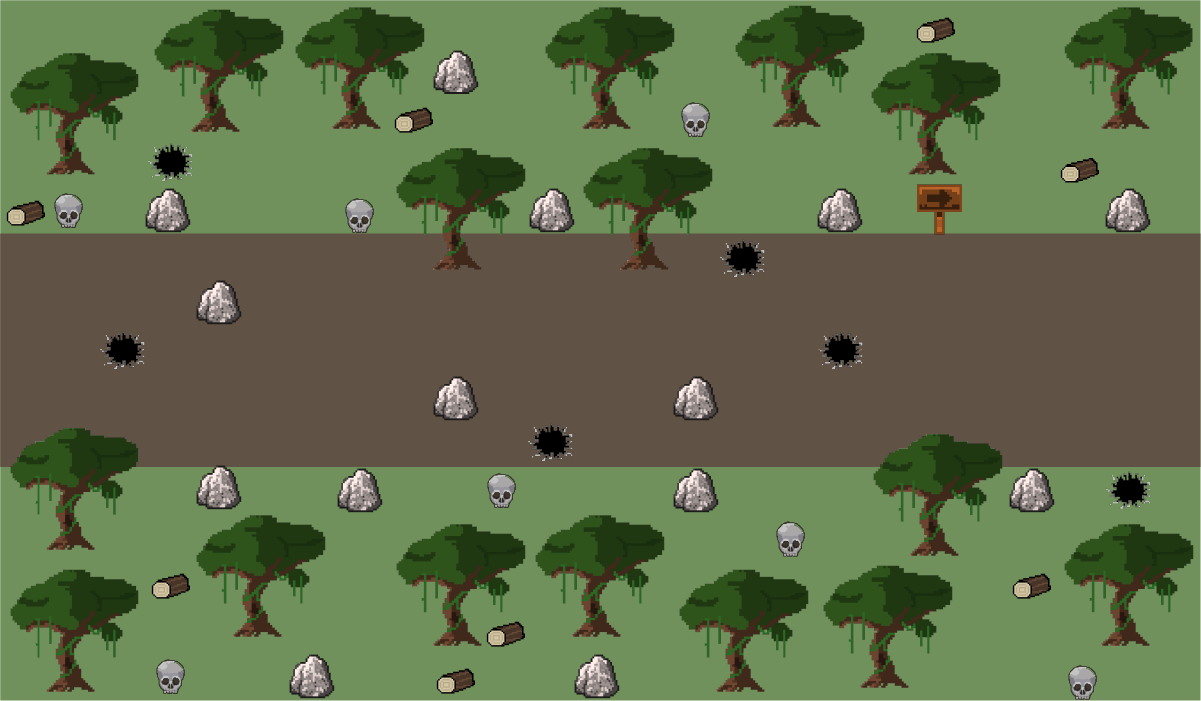
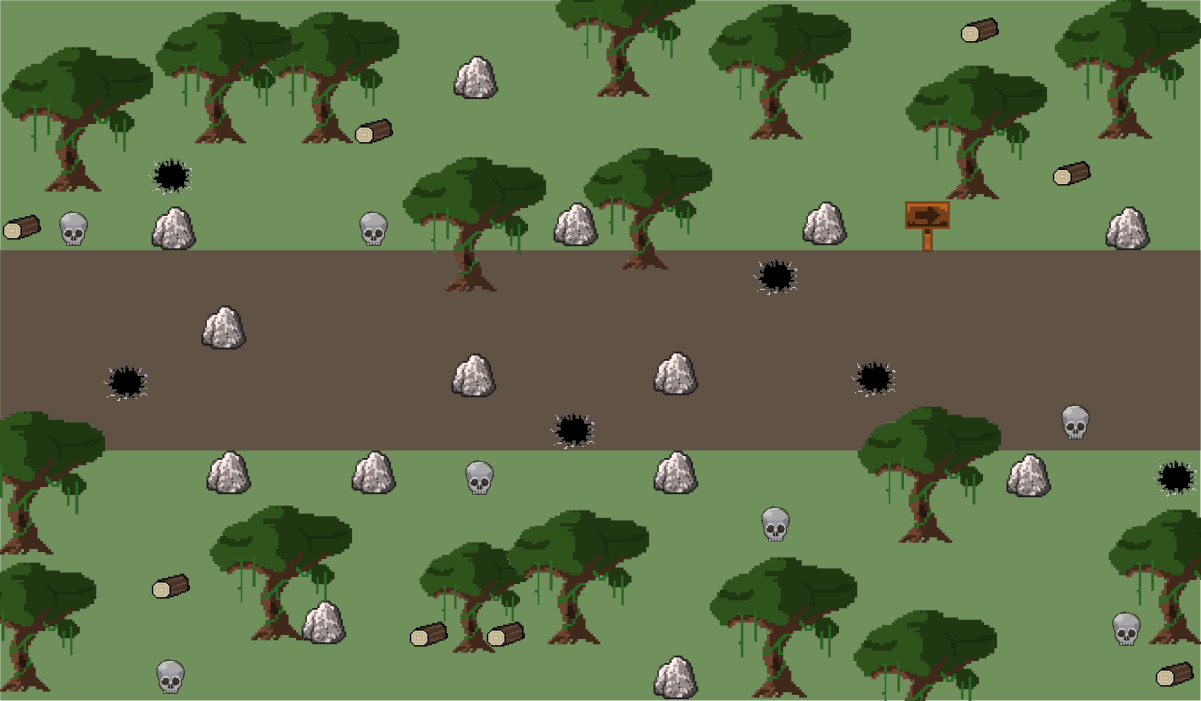
Area sensible de los mapas y correcion de estos

diff --git a/Map.js b/Map.js
@@ -18,9 +18,9 @@ class Map {
                 rect(column * 50, row * 50, 50, 50);
             }
         }
-        imageMode(CENTER);
-        image(this.image, 600, 350);
-        imageMode(CORNER);
+        //imageMode(CENTER);
+        image(this.image, 600, 350, 1200, 700);
+        //imageMode(CORNER);
         if (this.rifle !== null) {
             this.rifle.show()
         }
@@ -31,112 +31,113 @@ class Map {
     // Cambios de nivel
     ground(level){
         switch (level) {
-            case 0: //Nivel 1
+            case 0: //Nivel 1 barco
                 this.level = [
-                    [0, 0, 0, 0, 0, 0, 0, 0, 0, 0, 0, 0, 0, 0, 0, 0, 0, 0, 0, 0, 0, 0, 0, 0],
-                    [0, 0, 0, 0, 0, 0, 0, 0, 0, 0, 0, 0, 0, 0, 0, 0, 0, 0, 0, 0, 0, 0, 0, 0],
-                    [0, 0, 0, 0, 0, 0, 0, 0, 0, 0, 0, 0, 0, 0, 0, 0, 0, 0, 0, 0, 0, 0, 0, 0],
-                    [0, 0, 0, 0, 0, 0, 0, 0, 0, 0, 0, 0, 0, 0, 0, 0, 0, 0, 0, 0, 0, 0, 0, 0],
-                    [0, 0, 0, 0, 0, 0, 0, 0, 0, 0, 0, 0, 0, 0, 0, 0, 0, 0, 0, 0, 0, 0, 0, 0],
-                    [0, 0, 0, 0, 0, 0, 0, 0, 0, 0, 0, 0, 0, 0, 0, 0, 0, 0, 0, 0, 0, 0, 0, 0],
-                    [0, 0, 0, 0, 0, 0, 0, 0, 0, 0, 0, 1, 0, 1, 0, 0, 0, 0, 0, 0, 0, 0, 0, 2],
-                    [0, 0, 0, 0, 0, 0, 0, 0, 0, 0, 0, 0, 0, 0, 0, 0, 0, 0, 0, 0, 0, 0, 0, 2],
-                    [0, 0, 0, 0, 0, 0, 0, 0, 0, 0, 0, 1, 0, 1, 0, 0, 0, 0, 0, 0, 0, 0, 0, 0],
-                    [0, 0, 0, 0, 0, 0, 0, 0, 0, 0, 0, 0, 0, 0, 0, 0, 0, 0, 0, 0, 0, 0, 0, 0],
-                    [0, 0, 0, 0, 0, 0, 0, 0, 0, 0, 0, 0, 0, 0, 0, 0, 0, 0, 0, 0, 0, 0, 0, 0],
-                    [0, 0, 0, 0, 0, 0, 0, 0, 0, 0, 0, 0, 0, 0, 0, 0, 0, 0, 0, 0, 0, 0, 0, 0],
-                    [0, 0, 0, 0, 0, 0, 0, 0, 0, 0, 0, 0, 0, 0, 0, 0, 0, 0, 0, 0, 0, 0, 0, 0],
-                    [0, 0, 0, 0, 0, 0, 0, 0, 0, 0, 0, 0, 0, 0, 0, 0, 0, 0, 0, 0, 0, 0, 0, 0],
+                    [1, 1, 1, 1, 1, 1, 1, 1, 1, 1, 1, 1, 1, 1, 1, 1, 1, 1, 1, 1, 1, 1, 1, 1],
+                    [1, 1, 1, 1, 1, 1, 1, 1, 1, 1, 1, 1, 1, 1, 1, 1, 1, 1, 1, 1, 1, 1, 1, 1],
+                    [1, 1, 1, 1, 1, 0, 0, 0, 0, 0, 0, 0, 0, 0, 0, 0, 0, 0, 0, 0, 1, 1, 1, 1],
+                    [1, 1, 1, 1, 0, 0, 1, 1, 0, 0, 1, 0, 0, 0, 0, 0, 1, 0, 1, 1, 0, 1, 1, 1],
+                    [1, 1, 1, 1, 0, 0, 0, 0, 0, 0, 0, 0, 1, 1, 0, 0, 0, 0, 0, 0, 0, 1, 1, 1],
+                    [1, 1, 1, 1, 1, 0, 0, 1, 0, 0, 0, 0, 0, 0, 0, 0, 0, 0, 0, 0, 0, 0, 1, 1],
+                    [1, 1, 1, 1, 1, 0, 0, 0, 0, 0, 0, 0, 0, 0, 0, 0, 0, 0, 0, 0, 0, 0, 1, 1],
+                    [1, 1, 1, 1, 1, 0, 0, 0, 0, 0, 0, 0, 0, 0, 0, 0, 0, 0, 0, 0, 0, 0, 1, 1],
+                    [1, 1, 1, 1, 1, 0, 1, 0, 0, 0, 0, 0, 0, 1, 0, 0, 0, 0, 0, 1, 1, 1, 1, 1],
+                    [1, 1, 1, 1, 0, 0, 0, 0, 0, 1, 0, 0, 0, 0, 0, 0, 0, 0, 0, 0, 0, 1, 1, 1],
+                    [1, 1, 1, 1, 0, 0, 1, 1, 0, 0, 0, 0, 0, 0, 1, 1, 0, 0, 1, 0, 0, 1, 1, 1],
+                    [1, 1, 1, 1, 1, 0, 0, 0, 0, 0, 0, 0, 0, 0, 0, 0, 0, 0, 0, 0, 0, 1, 1, 1],
+                    [1, 1, 1, 1, 1, 1, 1, 1, 1, 1, 1, 2, 1, 1, 1, 1, 1, 1, 1, 1, 1, 1, 1, 1],
+                    [1, 1, 1, 1, 1, 1, 1, 1, 1, 1, 1, 2, 1, 1, 1, 1, 1, 1, 1, 1, 1, 1, 1, 1],
+                    
                 ];
                 break;
-                case 1: //Nivel 2
+                case 1: //Nivel 2 playa
                 this.level = [
-                    [0, 0, 0, 0, 0, 0, 0, 0, 0, 0, 0, 0, 0, 0, 0, 0, 0, 0, 0, 0, 0, 0, 0, 0],
-                    [0, 0, 0, 0, 0, 0, 0, 0, 0, 0, 0, 0, 0, 0, 0, 0, 0, 0, 0, 0, 0, 0, 0, 0],
-                    [0, 0, 0, 0, 0, 0, 0, 0, 0, 0, 0, 0, 0, 0, 0, 0, 0, 0, 0, 0, 0, 0, 0, 0],
-                    [0, 0, 0, 0, 0, 0, 0, 0, 0, 0, 0, 0, 0, 0, 0, 0, 0, 0, 0, 0, 0, 0, 0, 0],
-                    [0, 0, 0, 0, 0, 0, 0, 0, 0, 0, 0, 0, 0, 0, 0, 0, 0, 0, 0, 0, 0, 0, 0, 0],
-                    [0, 0, 0, 0, 0, 0, 0, 0, 0, 0, 0, 0, 0, 0, 0, 0, 0, 0, 0, 0, 0, 0, 0, 0],
-                    [0, 0, 0, 0, 0, 0, 0, 0, 0, 0, 0, 0, 0, 0, 0, 0, 0, 0, 0, 0, 0, 0, 0, 0],
-                    [0, 0, 0, 0, 0, 0, 0, 0, 0, 0, 0, 0, 0, 0, 0, 0, 0, 0, 0, 0, 0, 0, 0, 0],
-                    [0, 0, 0, 0, 0, 0, 0, 0, 0, 0, 0, 1, 0, 1, 0, 0, 0, 0, 0, 0, 0, 0, 0, 0],
-                    [0, 0, 0, 0, 0, 0, 0, 0, 0, 0, 0, 0, 0, 0, 0, 0, 0, 0, 0, 0, 0, 0, 0, 0],
-                    [0, 0, 0, 0, 0, 0, 0, 0, 0, 0, 0, 0, 0, 0, 0, 0, 0, 0, 0, 0, 0, 0, 0, 0],
-                    [0, 0, 0, 0, 0, 0, 0, 0, 0, 0, 0, 0, 0, 0, 0, 0, 0, 0, 0, 0, 0, 0, 0, 0],
-                    [0, 0, 0, 0, 0, 0, 0, 0, 0, 0, 0, 0, 0, 0, 0, 0, 0, 0, 0, 0, 0, 0, 0, 0],
-                    [0, 0, 0, 0, 0, 0, 0, 0, 0, 0, 0, 2, 2, 0, 0, 0, 0, 0, 0, 0, 0, 0, 0, 0],
+                    [1, 1, 1, 1, 1, 1, 1, 1, 1, 1, 1, 1, 1, 1, 1, 1, 1, 1, 1, 1, 1, 1, 1, 1],
+                    [1, 1, 1, 1, 1, 1, 1, 1, 1, 1, 1, 1, 1, 1, 1, 1, 1, 1, 1, 1, 1, 1, 1, 1],
+                    [1, 1, 1, 1, 1, 1, 1, 1, 1, 1, 1, 1, 1, 1, 1, 1, 1, 1, 1, 1, 1, 1, 1, 1],
+                    [1, 1, 1, 1, 1, 1, 1, 1, 1, 1, 1, 1, 1, 1, 1, 1, 1, 1, 1, 1, 1, 1, 1, 1],
+                    [1, 1, 1, 1, 1, 1, 1, 1, 1, 1, 1, 1, 1, 1, 1, 1, 1, 1, 1, 1, 0, 1, 1, 1],
+                    [0, 0, 1, 0, 0, 1, 0, 1, 0, 0, 0, 0, 0, 1, 0, 0, 0, 0, 1, 0, 0, 0, 1, 1],
+                    [0, 0, 0, 0, 0, 0, 0, 1, 1, 0, 1, 0, 0, 0, 0, 0, 0, 0, 0, 0, 0, 0, 1, 0],
+                    [1, 0, 0, 0, 1, 0, 0, 1, 1, 0, 0, 0, 0, 0, 0, 0, 0, 0, 1, 0, 0, 0, 1, 0],
+                    [0, 1, 1, 0, 1, 1, 0, 1, 0, 0, 0, 1, 0, 0, 0, 0, 0, 0, 0, 1, 1, 0, 0, 0],
+                    [0, 1, 0, 0, 0, 1, 0, 0, 0, 1, 0, 0, 0, 0, 0, 0, 0, 0, 0, 1, 1, 0, 0, 0],
+                    [0, 0, 0, 0, 0, 1, 1, 1, 0, 0, 0, 0, 0, 0, 0, 1, 1, 0, 0, 1, 0, 1, 1, 0],
+                    [0, 0, 1, 0, 1, 0, 1, 1, 0, 0, 0, 0, 0, 1, 0, 1, 1, 0, 1, 1, 0, 1, 1, 0],
+                    [2, 2, 2, 0, 0, 0, 1, 0, 0, 1, 0, 0, 0, 0, 0, 0, 1, 0, 1, 1, 0, 1, 0, 0],
+                    [2, 2, 2, 0, 0, 0, 0, 0, 0, 0, 0, 0, 0, 0, 0, 0, 0, 0, 1, 0, 0, 0, 0, 0],
                 ];
                 break;
-                case 2: // Nivel 3
+                case 2: // Nivel 3 carretera
                 this.level = [
-                    [0, 0, 0, 0, 0, 0, 0, 0, 0, 0, 0, 0, 0, 0, 0, 0, 0, 0, 0, 0, 0, 0, 0, 0],
-                    [0, 0, 0, 0, 0, 0, 0, 0, 0, 0, 0, 0, 0, 0, 0, 0, 0, 0, 0, 0, 0, 0, 0, 0],
-                    [0, 0, 0, 0, 0, 0, 0, 0, 0, 0, 0, 0, 0, 0, 0, 0, 0, 0, 0, 0, 0, 0, 0, 0],
-                    [0, 0, 0, 0, 0, 0, 0, 0, 0, 0, 0, 0, 0, 0, 0, 0, 0, 0, 0, 0, 0, 0, 0, 0],
-                    [0, 0, 0, 0, 0, 0, 0, 0, 0, 0, 0, 0, 0, 0, 0, 0, 0, 0, 0, 0, 0, 0, 0, 0],
-                    [0, 0, 0, 0, 0, 0, 0, 0, 0, 0, 0, 0, 0, 0, 0, 0, 0, 0, 0, 0, 0, 0, 0, 0],
-                    [0, 0, 0, 0, 0, 0, 0, 0, 0, 0, 0, 1, 0, 1, 0, 0, 0, 0, 0, 0, 0, 0, 0, 0],
-                    [0, 0, 0, 0, 0, 0, 0, 0, 0, 0, 0, 0, 0, 0, 0, 0, 0, 0, 0, 0, 0, 0, 0, 0],
-                    [0, 0, 0, 0, 0, 0, 0, 0, 0, 0, 0, 1, 0, 1, 0, 0, 0, 0, 0, 0, 0, 0, 0, 0],
-                    [0, 0, 0, 0, 0, 0, 0, 0, 0, 0, 0, 0, 0, 0, 0, 0, 0, 0, 0, 0, 0, 0, 0, 0],
-                    [0, 0, 0, 0, 0, 0, 0, 0, 0, 0, 0, 0, 0, 0, 0, 0, 0, 0, 0, 0, 0, 0, 0, 0],
-                    [0, 0, 0, 0, 0, 0, 0, 0, 0, 0, 0, 0, 0, 0, 0, 0, 0, 0, 0, 0, 0, 0, 0, 0],
-                    [0, 0, 0, 0, 0, 0, 0, 0, 0, 0, 0, 0, 0, 0, 0, 0, 0, 0, 0, 0, 0, 0, 0, 0],
-                    [0, 0, 0, 0, 0, 0, 0, 0, 0, 0, 0, 0, 0, 0, 0, 0, 0, 0, 0, 0, 0, 0, 0, 0],
+                    [0, 0, 0, 0, 0, 0, 1, 0, 0, 0, 0, 0, 0, 0, 0, 0, 0, 0, 0, 0, 0, 0, 0, 0],
+                    [1, 1, 1, 1, 0, 0, 1, 0, 0, 0, 0, 0, 0, 0, 0, 0, 0, 0, 0, 0, 0, 0, 0, 0],
+                    [0, 1, 1, 1, 0, 0, 1, 0, 0, 0, 0, 0, 0, 0, 0, 0, 0, 0, 0, 0, 0, 0, 0, 0],
+                    [0, 1, 0, 0, 0, 0, 0, 0, 0, 0, 0, 0, 0, 0, 0, 0, 0, 0, 0, 0, 0, 0, 0, 0],
+                    [1, 1, 1, 1, 1, 1, 1, 1, 1, 1, 1, 0, 0, 1, 1, 1, 1, 1, 1, 1, 1, 1, 1, 1],
+                    [0, 1, 1, 1, 0, 0, 0, 1, 1, 1, 0, 0, 0, 0, 1, 1, 1, 0, 0, 0, 0, 0, 0, 0],
+                    [0, 1, 1, 1, 0, 0, 0, 1, 1, 1, 0, 0, 0, 1, 1, 1, 1, 0, 0, 1, 1, 1, 0, 0],
+                    [0, 0, 1, 0, 0, 1, 0, 0, 1, 0, 0, 0, 0, 0, 0, 1, 0, 0, 1, 1, 1, 1, 0, 0],
+                    [0, 0, 0, 0, 0, 0, 0, 0, 0, 0, 1, 0, 0, 1, 0, 0, 0, 0, 0, 0, 1, 0, 0, 0],
+                    [1, 1, 1, 1, 1, 1, 1, 1, 1, 1, 1, 0, 0, 1, 1, 1, 1, 1, 1, 1, 1, 1, 1, 1],
+                    [1, 1, 1, 1, 1, 0, 0, 0, 0, 0, 0, 0, 0, 0, 0, 0, 0, 0, 0, 1, 1, 1, 1, 1],
+                    [1, 1, 1, 1, 1, 0, 0, 0, 0, 0, 0, 0, 0, 0, 0, 0, 0, 0, 0, 1, 1, 1, 1, 1],
+                    [0, 0, 0, 0, 0, 0, 0, 0, 0, 0, 0, 0, 0, 1, 1, 0, 0, 0, 0, 0, 1, 1, 1, 1],
+                    [0, 0, 0, 0, 0, 0, 0, 0, 0, 0, 0, 0, 0, 1, 1, 0, 0, 0, 0, 0, 0, 0, 0, 0],
                 ];
                 break;
-                case 3: //Nivel 4
+                case 3: //Nivel 4 ciudad
                 this.level = [
-                    [0, 0, 0, 0, 0, 0, 0, 0, 0, 0, 0, 0, 0, 0, 0, 0, 0, 0, 0, 0, 0, 0, 0, 0],
-                    [0, 0, 0, 0, 0, 0, 0, 0, 0, 0, 0, 0, 0, 0, 0, 0, 0, 0, 0, 0, 0, 0, 0, 0],
-                    [0, 0, 0, 0, 0, 0, 0, 0, 0, 0, 0, 0, 0, 0, 0, 0, 0, 0, 0, 0, 0, 0, 0, 0],
-                    [0, 0, 0, 0, 0, 0, 0, 0, 0, 0, 0, 0, 0, 0, 0, 0, 0, 0, 0, 0, 0, 0, 0, 0],
-                    [0, 0, 0, 0, 0, 0, 0, 0, 0, 0, 0, 0, 0, 0, 0, 0, 0, 0, 0, 0, 0, 0, 0, 0],
-                    [0, 0, 0, 0, 0, 0, 0, 0, 0, 0, 0, 0, 0, 0, 0, 0, 0, 0, 0, 0, 0, 0, 0, 0],
-                    [0, 0, 0, 0, 0, 0, 0, 0, 0, 0, 0, 1, 0, 1, 0, 0, 0, 0, 0, 0, 0, 0, 0, 0],
-                    [0, 0, 0, 0, 0, 0, 0, 0, 0, 0, 0, 0, 0, 0, 0, 0, 0, 0, 0, 0, 0, 0, 0, 0],
-                    [0, 0, 0, 0, 0, 0, 0, 0, 0, 0, 0, 1, 0, 1, 0, 0, 0, 0, 0, 0, 0, 0, 0, 0],
-                    [0, 0, 0, 0, 0, 0, 0, 0, 0, 0, 0, 0, 0, 0, 0, 0, 0, 0, 0, 0, 0, 0, 0, 0],
-                    [0, 0, 0, 0, 0, 0, 0, 0, 0, 0, 0, 0, 0, 0, 0, 0, 0, 0, 0, 0, 0, 0, 0, 0],
-                    [0, 0, 0, 0, 0, 0, 0, 0, 0, 0, 0, 0, 0, 0, 0, 0, 0, 0, 0, 0, 0, 0, 0, 0],
-                    [0, 0, 0, 0, 0, 0, 0, 0, 0, 0, 0, 0, 0, 0, 0, 0, 0, 0, 0, 0, 0, 0, 0, 0],
-                    [0, 0, 0, 0, 0, 0, 0, 0, 0, 0, 0, 0, 0, 0, 0, 0, 0, 0, 0, 0, 0, 0, 0, 0],
+                    [1, 1, 1, 1, 1, 1, 1, 1, 1, 1, 2, 2, 2, 2, 1, 1, 1, 1, 1, 1, 1, 1, 1, 1],
+                    [1, 1, 1, 1, 1, 1, 1, 1, 1, 1, 0, 0, 0, 1, 1, 1, 1, 1, 1, 1, 1, 1, 1, 1],
+                    [1, 1, 1, 0, 0, 0, 0, 0, 0, 1, 0, 0, 0, 0, 1, 0, 0, 0, 1, 1, 1, 0, 1, 0],
+                    [0, 0, 1, 0, 0, 1, 0, 1, 0, 0, 0, 0, 0, 0, 0, 1, 0, 1, 0, 0, 0, 1, 0, 0],
+                    [0, 0, 0, 0, 0, 0, 0, 0, 1, 0, 0, 0, 0, 0, 0, 1, 0, 0, 0, 0, 0, 0, 0, 0],
+                    [0, 0, 0, 0, 0, 0, 0, 0, 0, 0, 0, 0, 0, 0, 0, 0, 0, 0, 0, 0, 1, 1, 1, 1],
+                    [0, 0, 0, 0, 0, 0, 0, 0, 0, 0, 0, 0, 0, 0, 0, 0, 0, 0, 0, 0, 1, 1, 1, 1],
+                    [0, 0, 0, 0, 1, 1, 1, 0, 0, 0, 0, 0, 0, 0, 0, 0, 0, 1, 1, 1, 1, 0, 0, 0],
+                    [0, 0, 0, 0, 1, 1, 1, 0, 0, 0, 1, 0, 0, 0, 1, 0, 0, 1, 1, 1, 1, 0, 0, 0],
+                    [0, 0, 0, 1, 1, 0, 0, 0, 1, 0, 0, 0, 0, 0, 1, 0, 0, 0, 1, 1, 0, 0, 0, 0],
+                    [0, 1, 1, 1, 1, 1, 1, 0, 0, 0, 0, 0, 0, 0, 1, 0, 1, 1, 1, 1, 1, 1, 1, 1],
+                    [0, 0, 0, 0, 0, 0, 0, 0, 1, 1, 0, 0, 0, 0, 0, 0, 0, 0, 1, 1, 0, 0, 1, 1],
+                    [0, 1, 1, 0, 0, 0, 1, 0, 1, 1, 0, 1, 1, 0, 0, 1, 1, 0, 1, 1, 0, 0, 0, 0],
+                    [0, 1, 1, 0, 0, 0, 0, 0, 0, 0, 0, 1, 1, 0, 0, 1, 1, 0, 0, 0, 0, 0, 0, 0],
                 ];
                 break;
-                case 4: // Nivel 5
+                case 4: // Nivel 5 bosque
                 this.level = [
-                    [0, 0, 0, 0, 0, 0, 0, 0, 0, 0, 0, 0, 0, 0, 0, 0, 0, 0, 0, 0, 0, 0, 0, 0],
-                    [0, 0, 0, 0, 0, 0, 0, 0, 0, 0, 0, 0, 0, 0, 0, 0, 0, 0, 0, 0, 0, 0, 0, 0],
-                    [0, 0, 0, 0, 0, 0, 0, 0, 0, 0, 0, 0, 0, 0, 0, 0, 0, 0, 0, 0, 0, 0, 0, 0],
-                    [0, 0, 0, 0, 0, 0, 0, 0, 0, 0, 0, 0, 0, 0, 0, 0, 0, 0, 0, 0, 0, 0, 0, 0],
-                    [0, 0, 0, 0, 0, 0, 0, 0, 0, 0, 0, 0, 0, 0, 0, 0, 0, 0, 0, 0, 0, 0, 0, 0],
-                    [0, 0, 0, 0, 0, 0, 0, 0, 0, 0, 0, 0, 0, 0, 0, 0, 0, 0, 0, 0, 0, 0, 0, 0],
-                    [0, 0, 0, 0, 0, 0, 0, 0, 0, 0, 0, 1, 0, 1, 0, 0, 0, 0, 0, 0, 0, 0, 0, 0],
-                    [0, 0, 0, 0, 0, 0, 0, 0, 0, 0, 0, 0, 0, 0, 0, 0, 0, 0, 0, 0, 0, 0, 0, 0],
-                    [0, 0, 0, 0, 0, 0, 0, 0, 0, 0, 0, 1, 0, 1, 0, 0, 0, 0, 0, 0, 0, 0, 0, 0],
-                    [0, 0, 0, 0, 0, 0, 0, 0, 0, 0, 0, 0, 0, 0, 0, 0, 0, 0, 0, 0, 0, 0, 0, 0],
-                    [0, 0, 0, 0, 0, 0, 0, 0, 0, 0, 0, 0, 0, 0, 0, 0, 0, 0, 0, 0, 0, 0, 0, 0],
-                    [0, 0, 0, 0, 0, 0, 0, 0, 0, 0, 0, 0, 0, 0, 0, 0, 0, 0, 0, 0, 0, 0, 0, 0],
-                    [0, 0, 0, 0, 0, 0, 0, 0, 0, 0, 0, 0, 0, 0, 0, 0, 0, 0, 0, 0, 0, 0, 0, 0],
-                    [0, 0, 0, 0, 0, 0, 0, 0, 0, 0, 0, 0, 0, 0, 0, 0, 0, 0, 0, 0, 0, 0, 0, 0],
+                    [0, 0, 0, 1, 1, 1, 1, 1, 0, 0, 0, 1, 1, 1, 1, 1, 1, 0, 0, 1, 0, 1, 1, 1],
+                    [1, 1, 1, 1, 1, 1, 1, 1, 0, 1, 0, 0, 1, 0, 1, 1, 1, 0, 1, 1, 1, 1, 1, 1],
+                    [1, 1, 1, 0, 1, 0, 1, 1, 0, 0, 0, 0, 0, 0, 0, 1, 0, 0, 1, 1, 1, 0, 1, 0],
+                    [0, 1, 0, 1, 0, 0, 0, 0, 1, 1, 0, 1, 1, 1, 0, 0, 0, 0, 0, 1, 0, 1, 0, 0],
+                    [1, 1, 0, 1, 0, 0, 0, 1, 1, 1, 1, 1, 1, 1, 0, 0, 1, 0, 1, 0, 0, 0, 1, 0],
+                    [0, 0, 0, 0, 0, 0, 0, 0, 0, 1, 1, 0, 1, 0, 0, 1, 0, 0, 0, 0, 0, 0, 0, 2],
+                    [0, 0, 0, 0, 1, 0, 0, 0, 0, 0, 0, 1, 0, 1, 0, 0, 0, 0, 0, 0, 0, 0, 0, 2],
+                    [0, 0, 1, 0, 0, 0, 0, 0, 0, 1, 0, 0, 0, 1, 0, 0, 0, 1, 0, 0, 0, 0, 0, 2],
+                    [1, 1, 0, 0, 0, 0, 0, 0, 0, 0, 0, 1, 0, 1, 0, 0, 0, 1, 1, 1, 0, 1, 0, 2],
+                    [1, 1, 0, 0, 1, 0, 0, 1, 0, 1, 0, 0, 0, 1, 0, 0, 0, 1, 1, 1, 1, 0, 0, 1],
+                    [1, 0, 0, 0, 1, 1, 1, 0, 0, 0, 1, 1, 1, 0, 0, 1, 0, 0, 1, 0, 0, 0, 1, 1],
+                    [1, 1, 0, 1, 1, 1, 1, 0, 1, 1, 1, 1, 1, 0, 1, 1, 1, 0, 0, 0, 0, 0, 1, 1],
+                    [1, 1, 0, 0, 0, 1, 1, 0, 1, 1, 1, 1, 0, 0, 1, 1, 1, 1, 1, 1, 0, 0, 1, 1],
+                    [1, 0, 0, 1, 0, 0, 0, 0, 0, 0, 0, 0, 0, 1, 0, 1, 0, 1, 1, 1, 0, 0, 0, 1],
                 ];
                 break;
-                case 5: // Nivel 6
+                case 5: // Nivel 6 cementerio
                 this.level = [
-                    [0, 0, 0, 0, 0, 0, 0, 0, 0, 0, 0, 0, 0, 0, 0, 0, 0, 0, 0, 0, 0, 0, 0, 0],
-                    [0, 0, 0, 0, 0, 0, 0, 0, 0, 0, 0, 0, 0, 0, 0, 0, 0, 0, 0, 0, 0, 0, 0, 0],
-                    [0, 0, 0, 0, 0, 0, 0, 0, 0, 0, 0, 0, 0, 0, 0, 0, 0, 0, 0, 0, 0, 0, 0, 0],
-                    [0, 0, 0, 0, 0, 0, 0, 0, 0, 0, 0, 0, 0, 0, 0, 0, 0, 0, 0, 0, 0, 0, 0, 0],
-                    [0, 0, 0, 0, 0, 0, 0, 0, 0, 0, 0, 0, 0, 0, 0, 0, 0, 0, 0, 0, 0, 0, 0, 0],
-                    [0, 0, 0, 0, 0, 0, 0, 0, 0, 0, 0, 0, 0, 0, 0, 0, 0, 0, 0, 0, 0, 0, 0, 0],
-                    [0, 0, 0, 0, 0, 0, 0, 0, 0, 0, 0, 1, 0, 1, 0, 0, 0, 0, 0, 0, 0, 0, 0, 0],
-                    [0, 0, 0, 0, 0, 0, 0, 0, 0, 0, 0, 0, 0, 0, 0, 0, 0, 0, 0, 0, 0, 0, 0, 0],
-                    [0, 0, 0, 0, 0, 0, 0, 0, 0, 0, 0, 1, 0, 1, 0, 0, 0, 0, 0, 0, 0, 0, 0, 0],
-                    [0, 0, 0, 0, 0, 0, 0, 0, 0, 0, 0, 0, 0, 0, 0, 0, 0, 0, 0, 0, 0, 0, 0, 0],
-                    [0, 0, 0, 0, 0, 0, 0, 0, 0, 0, 0, 0, 0, 0, 0, 0, 0, 0, 0, 0, 0, 0, 0, 0],
-                    [0, 0, 0, 0, 0, 0, 0, 0, 0, 0, 0, 0, 0, 0, 0, 0, 0, 0, 0, 0, 0, 0, 0, 0],
-                    [0, 0, 0, 0, 0, 0, 0, 0, 0, 0, 0, 0, 0, 0, 0, 0, 0, 0, 0, 0, 0, 0, 0, 0],
-                    [0, 0, 0, 0, 0, 0, 0, 0, 0, 0, 0, 0, 0, 0, 0, 0, 0, 0, 0, 0, 0, 0, 0, 0],
+                    [1, 1, 1, 0, 1, 1, 1, 0, 0, 1, 1, 1, 1, 1, 1, 0, 0, 0, 0, 0, 1, 1, 1, 1],
+                    [1, 1, 1, 0, 1, 1, 1, 0, 0, 1, 1, 1, 1, 1, 0, 0, 1, 0, 0, 1, 1, 1, 1, 1],
+                    [1, 1, 0, 0, 0, 1, 0, 1, 0, 0, 1, 0, 0, 0, 0, 1, 0, 0, 0, 0, 1, 0, 1, 0],
+                    [1, 0, 0, 0, 0, 0, 0, 1, 0, 0, 0, 0, 0, 0, 1, 0, 0, 1, 0, 1, 0, 0, 1, 1],
+                    [0, 0, 0, 1, 1, 0, 0, 0, 0, 0, 1, 0, 0, 0, 0, 0, 0, 0, 0, 0, 1, 0, 0, 1],
+                    [1, 1, 0, 0, 1, 0, 1, 0, 0, 0, 0, 0, 0, 1, 0, 0, 1, 0, 1, 0, 0, 0, 1, 1],
+                    [1, 0, 0, 1, 0, 0, 0, 0, 0, 1, 0, 0, 0, 0, 0, 0, 0, 0, 0, 0, 1, 0, 1, 1],
+                    [0, 0, 1, 0, 0, 0, 1, 0, 0, 0, 0, 0, 0, 0, 0, 1, 0, 0, 1, 0, 0, 0, 0, 1],
+                    [1, 1, 0, 0, 1, 0, 0, 0, 1, 0, 0, 0, 0, 0, 1, 0, 0, 0, 0, 0, 1, 0, 0, 0],
+                    [1, 1, 1, 0, 0, 1, 0, 0, 0, 1, 0, 0, 0, 0, 0, 0, 1, 0, 1, 0, 0, 0, 1, 1],
+                    [1, 0, 0, 0, 0, 0, 0, 0, 0, 0, 0, 1, 0, 0, 0, 0, 0, 0, 0, 0, 1, 0, 1, 1],
+                    [1, 1, 0, 1, 0, 1, 1, 1, 1, 0, 0, 1, 1, 0, 1, 0, 0, 1, 0, 0, 0, 1, 1, 1],
+                    [1, 1, 0, 1, 0, 1, 1, 1, 0, 1, 0, 0, 0, 0, 0, 0, 1, 0, 0, 1, 0, 0, 1, 1],
+                    [1, 0, 0, 0, 0, 0, 1, 0, 0, 0, 0, 0, 0, 0, 0, 0, 0, 0, 0, 0, 0, 0, 0, 1],
                 ];
                 break;
             default:

diff --git a/Player.js b/Player.js
@@ -18,25 +18,25 @@ class Player {
             case 'a' || 'A': //Lateral izquierda
                 this.x = (this.column * 50) + 25; //
                 this.y = (this.row * 50) + 25;
-                image(this.imgLeft, this.x, this.y, 50, 80);
+                image(this.imgLeft, this.x, this.y, 50, 50);
                 break;
             case 'w' || 'W': // Trasera
                 this.x = (this.column * 50) + 25; //
                 this.y = (this.row * 50) + 25;
-                image(this.imgBackward, this.x, this.y, 50, 80);
+                image(this.imgBackward, this.x, this.y, 50, 50);
                 break;
             case 'd' || 'D': //Lateral derecha
                 this.x = (this.column * 50) + 25; //
                 this.y = (this.row * 50) + 25;
-                image(this.imgRight, this.x, this.y, 50, 80);
+                image(this.imgRight, this.x, this.y, 50, 50);
                 break;
             case 's' || 'S': //Frontal
                 this.x = (this.column * 50) + 25; //
                 this.y = (this.row * 50) + 25;
-                image(this.imgFront, this.x, this.y, 50, 80);
+                image(this.imgFront, this.x, this.y, 50, 50);
                 break;
             default:
-                image(this.imgFront, this.x, this.y, 50, 80);
+                image(this.imgFront, this.x, this.y, 50, 50);
                 break;
         }
         this.move();
